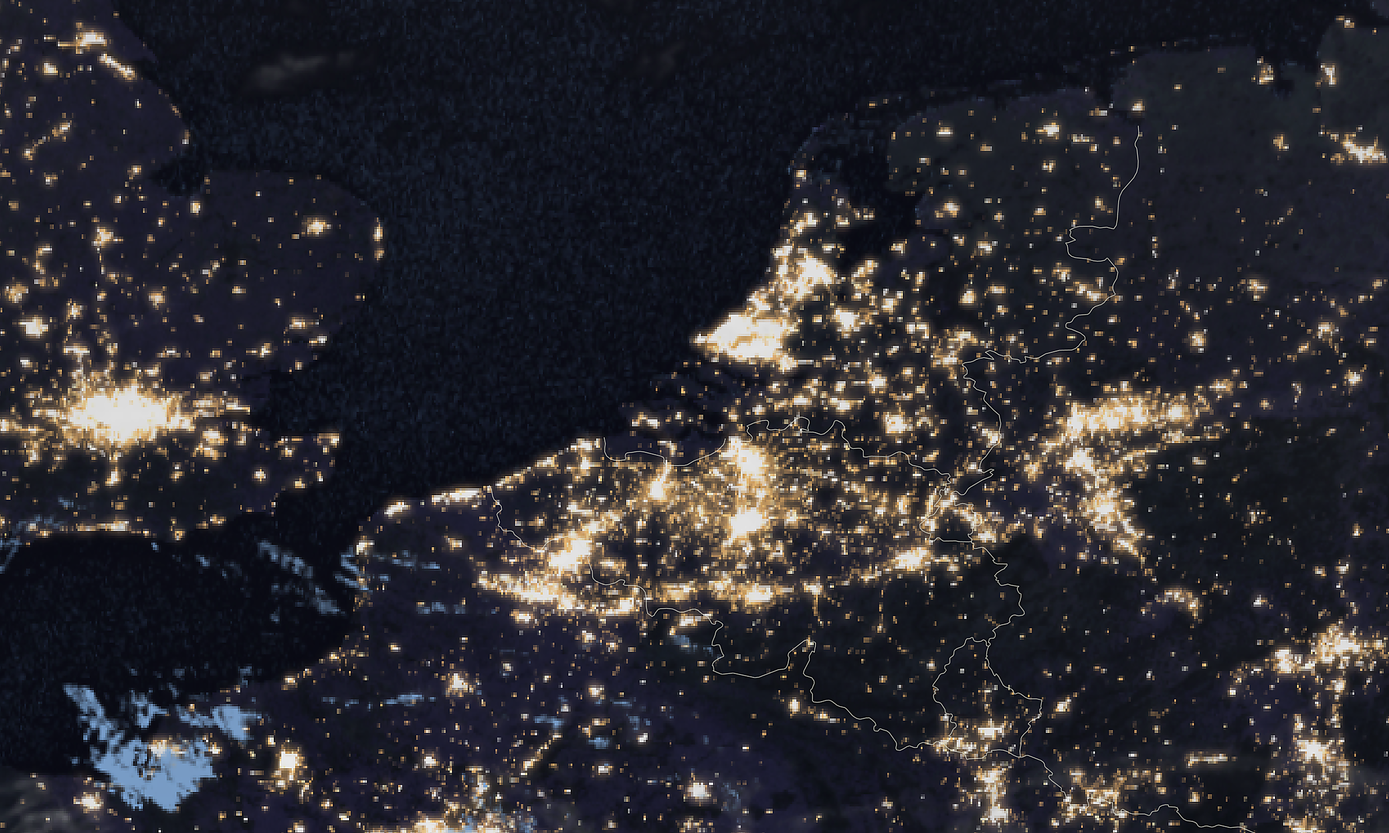
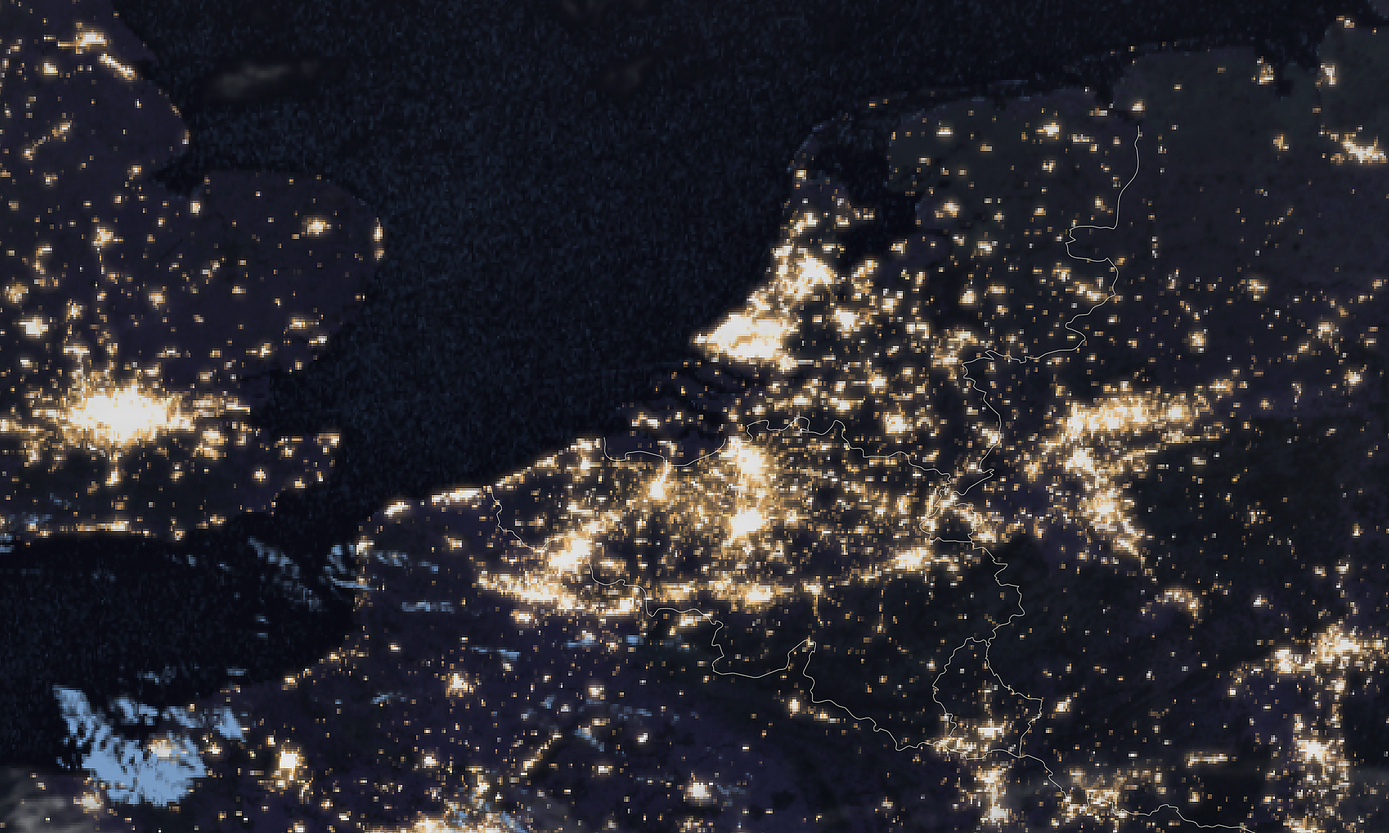
MTG Benelux satellietbeeld update 2026-04-29 04:15

diff --git a/mtg_benelux_meta.js b/mtg_benelux_meta.js
@@ -1,2 +1,2 @@
 const MTG_BENELUX_PRODUCT = "mtg_fd:rgb_geocolour";
-const MTG_BENELUX_TIJD = "2026-04-29T01:40:00Z";
+const MTG_BENELUX_TIJD = "2026-04-29T01:50:00Z";
